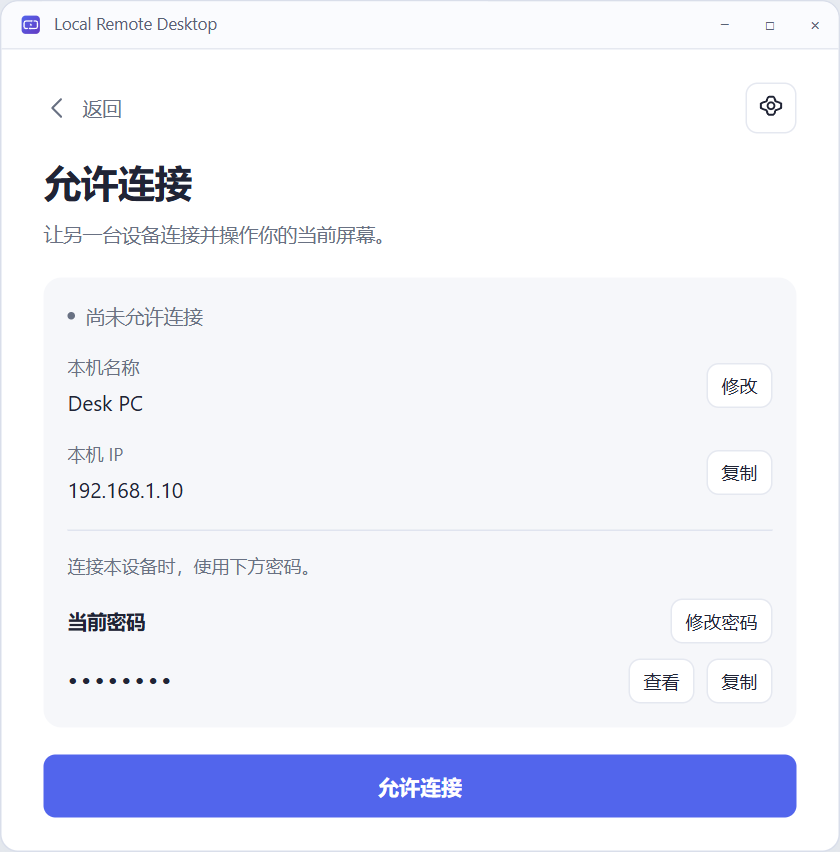
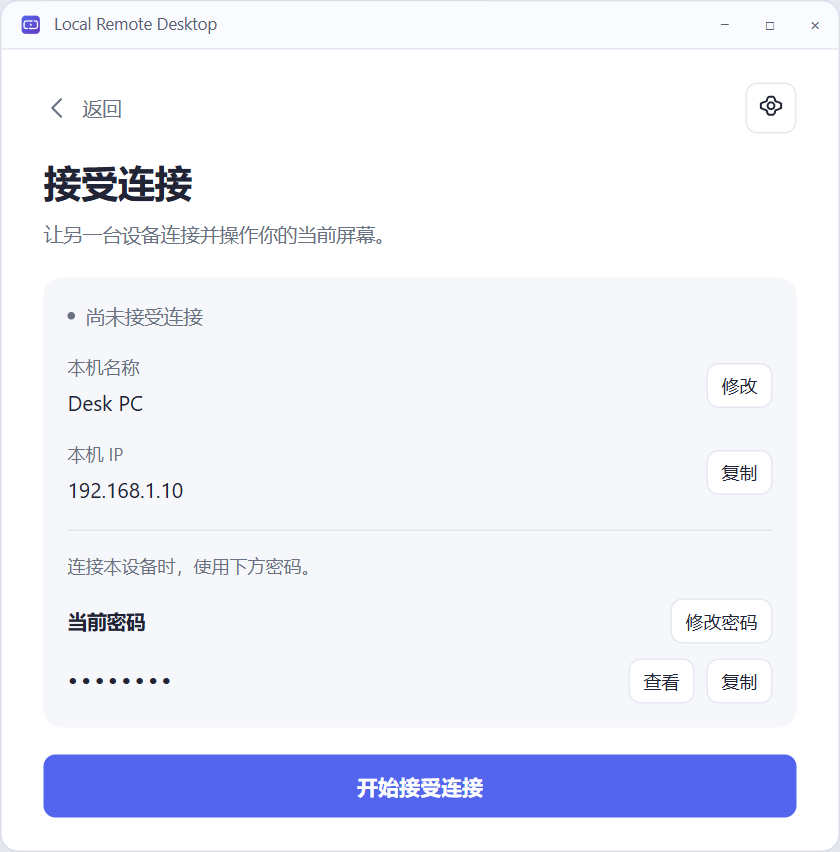
design: clarify connection roles with directional device illustrations

Changed region(s): [[0.031, 0.1831, 0.1548, 0.2441], [0.4024, 0.9155, 0.5881, 0.946], [0.1548, 0.3357, 0.1857, 0.3967]]

diff --git a/design/entry-review/prototype.js b/design/entry-review/prototype.js
@@ -1,11 +1,11 @@
 "use strict";
 const $=id=>document.getElementById(id);
 const copy={
-en:{subtitle:"Entry flow · Design draft",platform:"Platform",language:"Language",home:"Home",connect:"Connect to a device",share:"Allow connections",settings:"Settings",back:"Back",question:"How would you like to use it?",connectHint:"Choose a device to connect to and control.",shareHint:"Let another device connect to and control your current screen.",add:"Add target",devices:"Devices",refresh:"Refresh devices",remembered:"Remembered",first:"First connection",online:"Available",offline:"Offline",emptyTitle:"No devices or connection history",emptyHint:"Allow connections on the other device, or use Add target to enter its IP.",off:"Not accepting connections",on:"Waiting for a connection",name:"This device’s name",changeName:"Change",localIp:"This device’s IP",password:"Current password",changePassword:"Change password",passwordHint:"Use the password below to connect to this device.",show:"Show",hide:"Hide",copy:"Copy",start:"Allow connections",stop:"Stop accepting connections",targetIp:"Target IP",targetPassword:"Pairing password",remember:"Remember password",cancel:"Cancel",save:"Save",generate:"Generate",newPassword:"New password",passwordHelp:"8 characters, no spaces.",saveHelp:"Saving stops accepting connections and disconnects the current device.",invalidPassword:"Use exactly 8 characters without spaces.",invalidIp:"Enter a valid private IPv4 address.",pairError:"The pairing password did not match.",defaultState:"Default",noDevices:"No devices",permissions:"Permissions needed",permissionHint:"Allow screen recording and input control before accepting connections.",permissionAction:"Review permissions",note:"Design preview only. Devices and passwords are fictional; no connections, clipboard access, saved credentials or system changes.",spec:"Design notes",previewCopy:"Preview: copied.",previewConnect:"Preview: connection completed. The native app would now show the remote desktop.",previewRefresh:"Preview: device list refreshed.",previewPermission:"Preview: the native app would open macOS permission settings.",reconnect:"Reconnect automatically",quality:"Default picture quality",standard:"Standard",clipboard:"Clipboard",text:"Sync text",files:"Sync files",connection:"Connection",general:"General",nameTitle:"Change this device’s name",systemName:"Use system name",close:"Close",modalConnect:"Connect to device",conflictTitle:"Stop accepting connections?",conflictHint:"This ends any current connection to this device.",stopAndConnect:"Stop & connect",about:"About"},
-zh:{subtitle:"入口与操作流程 · 设计草图",platform:"平台",language:"语言",home:"首页",connect:"连接设备",share:"允许连接",settings:"设置",back:"返回",question:"你想如何使用？",connectHint:"选择你要连接并操作的设备。",shareHint:"让另一台设备连接并操作你的当前屏幕。",add:"添加目标",devices:"设备",refresh:"刷新设备",remembered:"已记住",first:"首次连接",online:"可连接",offline:"离线",emptyTitle:"暂无设备或连接记录",emptyHint:"请让对方设备允许连接，或通过“添加目标”输入目标 IP。",off:"尚未允许连接",on:"等待另一台设备连接",name:"本机名称",changeName:"修改",localIp:"本机 IP",password:"当前密码",changePassword:"修改密码",passwordHint:"连接本设备时，使用下方密码。",show:"查看",hide:"隐藏",copy:"复制",start:"允许连接",stop:"停止接收连接",targetIp:"目标 IP",targetPassword:"配对密码",remember:"记住密码",cancel:"取消",save:"保存",generate:"自动生成",newPassword:"新密码",passwordHelp:"8 位，不含空格。",saveHelp:"保存后将停止接收连接，并断开当前连接。",invalidPassword:"请输入 8 位密码，不含空格。",invalidIp:"请输入有效的私有 IPv4 地址。",pairError:"配对密码不正确。",defaultState:"默认",noDevices:"空列表",permissions:"待授权",permissionHint:"允许连接前，需要授权屏幕录制和辅助功能。",permissionAction:"检查权限",note:"仅为设计预览。设备和密码均为虚构示例，不实际连接、不操作剪贴板、不保存凭据、不修改系统。",spec:"设计说明",previewCopy:"预览：已模拟复制。",previewConnect:"预览：已模拟连接成功，实际客户端将进入远程桌面。",previewRefresh:"预览：已模拟刷新设备列表。",previewPermission:"预览：实际客户端将打开 macOS 权限设置。",reconnect:"自动重连",quality:"默认画质",standard:"标准",clipboard:"剪贴板",text:"同步文字",files:"同步文件",connection:"连接设置",general:"通用",nameTitle:"修改本机名称",systemName:"使用系统名称",close:"关闭",modalConnect:"连接设备",conflictTitle:"停止接收连接？",conflictHint:"这将断开其他设备对本设备的当前连接。",stopAndConnect:"停止接收并连接",about:"关于"}
+en:{subtitle:"Entry flow · Design draft",platform:"Platform",language:"Language",home:"Home",connect:"Start a connection",share:"Accept connections",settings:"Settings",back:"Back",question:"How would you like to use it?",connectHint:"Choose a device to connect to and control.",shareHint:"Let another device connect to and control your current screen.",add:"Add target",devices:"Devices",refresh:"Refresh devices",remembered:"Remembered",first:"First connection",online:"Available",offline:"Offline",emptyTitle:"No devices or connection history",emptyHint:"Start accepting connections on the other device, or use Add target to enter its IP.",off:"Not accepting connections",on:"Waiting for a connection",name:"This device’s name",changeName:"Change",localIp:"This device’s IP",password:"Current password",changePassword:"Change password",passwordHint:"Use the password below to connect to this device.",show:"Show",hide:"Hide",copy:"Copy",start:"Start accepting connections",stop:"Stop accepting connections",targetIp:"Target IP",targetPassword:"Pairing password",remember:"Remember password",cancel:"Cancel",save:"Save",generate:"Generate",newPassword:"New password",passwordHelp:"8 characters, no spaces.",saveHelp:"Saving stops accepting connections and disconnects the current device.",invalidPassword:"Use exactly 8 characters without spaces.",invalidIp:"Enter a valid private IPv4 address.",pairError:"The pairing password did not match.",defaultState:"Default",noDevices:"No devices",permissions:"Permissions needed",permissionHint:"Allow screen recording and input control before accepting connections.",permissionAction:"Review permissions",note:"Design preview only. Devices and passwords are fictional; no connections, clipboard access, saved credentials or system changes.",spec:"Design notes",previewCopy:"Preview: copied.",previewConnect:"Preview: connection completed. The native app would now show the remote desktop.",previewRefresh:"Preview: device list refreshed.",previewPermission:"Preview: the native app would open macOS permission settings.",reconnect:"Reconnect automatically",quality:"Default picture quality",standard:"Standard",clipboard:"Clipboard",text:"Sync text",files:"Sync files",connection:"Connection",general:"General",nameTitle:"Change this device’s name",systemName:"Use system name",close:"Close",modalConnect:"Connect to device",conflictTitle:"Stop accepting connections?",conflictHint:"This ends any current connection to this device.",stopAndConnect:"Stop & connect",about:"About"},
+zh:{subtitle:"入口与操作流程 · 设计草图",platform:"平台",language:"语言",home:"首页",connect:"发起连接",share:"接受连接",settings:"设置",back:"返回",question:"你想如何使用？",connectHint:"选择你要连接并操作的设备。",shareHint:"让另一台设备连接并操作你的当前屏幕。",add:"添加目标",devices:"设备",refresh:"刷新设备",remembered:"已记住",first:"首次连接",online:"可连接",offline:"离线",emptyTitle:"暂无设备或连接记录",emptyHint:"请让对方设备开始接受连接，或通过“添加目标”输入目标 IP。",off:"尚未接受连接",on:"等待连接",name:"本机名称",changeName:"修改",localIp:"本机 IP",password:"当前密码",changePassword:"修改密码",passwordHint:"连接本设备时，使用下方密码。",show:"查看",hide:"隐藏",copy:"复制",start:"开始接受连接",stop:"停止接受连接",targetIp:"目标 IP",targetPassword:"配对密码",remember:"记住密码",cancel:"取消",save:"保存",generate:"自动生成",newPassword:"新密码",passwordHelp:"8 位，不含空格。",saveHelp:"保存后将停止接受连接，并断开当前连接。",invalidPassword:"请输入 8 位密码，不含空格。",invalidIp:"请输入有效的私有 IPv4 地址。",pairError:"配对密码不正确。",defaultState:"默认",noDevices:"空列表",permissions:"待授权",permissionHint:"接受连接前，需要授权屏幕录制和辅助功能。",permissionAction:"检查权限",note:"仅为设计预览。设备和密码均为虚构示例，不实际连接、不操作剪贴板、不保存凭据、不修改系统。",spec:"设计说明",previewCopy:"预览：已模拟复制。",previewConnect:"预览：已模拟连接成功，实际客户端将进入远程桌面。",previewRefresh:"预览：已模拟刷新设备列表。",previewPermission:"预览：实际客户端将打开 macOS 权限设置。",reconnect:"自动重连",quality:"默认画质",standard:"标准",clipboard:"剪贴板",text:"同步文字",files:"同步文件",connection:"连接设置",general:"通用",nameTitle:"修改本机名称",systemName:"使用系统名称",close:"关闭",modalConnect:"连接设备",conflictTitle:"停止接受连接？",conflictHint:"这将断开其他设备对本设备的当前连接。",stopAndConnect:"停止接受并连接",about:"关于"}
 };
-const paths={gear:'<path d="m9 3 1-1h4l1 1 1 3 3 1 2 1v4l-2 1-3 1-1 3-1 1h-4l-1-1-1-3-3-1-2-1V8l2-1 3-1Z"/><circle cx="12" cy="10" r="3"/>',back:'<path d="m14 5-7 7 7 7"/>',monitor:'<rect x="3" y="4" width="18" height="13" rx="2"/><path d="M9 21h6m-3-4v4"/>',connect:'<path d="M34 16H20a10 10 0 0 0-10 10v12a10 10 0 0 0 10 10h5m6-36 5 4-5 4M30 48h14a10 10 0 0 0 10-10V26a10 10 0 0 0-10-10h-5m-6 28-5 4 5 4"/><path d="m25 25 15 10-6 .5 3.5 7-3.5 1.5-3.5-7-4 4Z" fill="currentColor" stroke="none"/>',share:'<path d="M34 16H20a10 10 0 0 0-10 10v12a10 10 0 0 0 10 10h5m6-36 5 4-5 4M30 48h14a10 10 0 0 0 10-10V26a10 10 0 0 0-10-10h-5m-6 28-5 4 5 4"/><path d="M23 32h16m-5-5 5 5-5 5"/>',refresh:'<path d="M20 7v5h-5M4 17v-5h5M6 6a8 8 0 0 1 13 3M18 18A8 8 0 0 1 5 15"/>',close:'<path d="m6 6 12 12M18 6 6 18"/>',chevron:'<path d="m9 5 7 7-7 7"/>'};
-const icon=name=>`<svg class="icon" viewBox="${['connect','share'].includes(name)?'0 0 64 64':'0 0 24 24'}" aria-hidden="true">${paths[name]}</svg>`;
+const paths={gear:'<path d="m9 3 1-1h4l1 1 1 3 3 1 2 1v4l-2 1-3 1-1 3-1 1h-4l-1-1-1-3-3-1-2-1V8l2-1 3-1Z"/><circle cx="12" cy="10" r="3"/>',back:'<path d="m14 5-7 7 7 7"/>',monitor:'<rect x="3" y="4" width="18" height="13" rx="2"/><path d="M9 21h6m-3-4v4"/>',refresh:'<path d="M20 7v5h-5M4 17v-5h5M6 6a8 8 0 0 1 13 3M18 18A8 8 0 0 1 5 15"/>',close:'<path d="m6 6 12 12M18 6 6 18"/>',chevron:'<path d="m9 5 7 7-7 7"/>'};
+const icon=name=>`<svg class="icon" viewBox="0 0 24 24" aria-hidden="true">${paths[name]}</svg>`;
 const esc=s=>String(s).replace(/[&<>"']/g,c=>({'&':'&amp;','<':'&lt;','>':'&gt;','"':'&quot;',"'":'&#39;'}[c]));
 let lang=new URLSearchParams(location.search).get('lang')==='zh'?'zh':'en',platform='windows',page='home',empty=false,permissionMissing=false,sharing=false,revealed=false,password='Blue482X',modal=null,returnFocus=null;
 const names={windows:'Desk PC',mac:'My MacBook'}; let localNames={...names};
@@ -13,7 +13,7 @@ const t=key=>copy[lang][key];
 function chrome(){return platform==='mac'?`<span class="traffic" aria-hidden="true"><i></i><i></i><i></i></span><span>Local Remote Desktop</span>`:`<img src="../../assets/brand/icon.svg" alt=""><span>Local Remote Desktop</span><span class="window-buttons" aria-hidden="true"><span>−</span><span>□</span><span>×</span></span>`;}
 const settingsButton=()=>`<button class="icon-button" data-action="settings" aria-label="${t('settings')}">${icon('gear')}</button>`;
 const back=()=>`<button class="back" data-action="home">${icon('back')}${t('back')}</button>`;
-function home(){return `<div class="topline"><span></span>${settingsButton()}</div><h2 class="welcome-heading">${t('question')}</h2><div class="choices"><button class="choice" data-action="connect"><span class="choice-icon">${icon('connect')}</span><strong>${t('connect')}</strong></button><button class="choice" data-action="share"><span class="choice-icon">${icon('share')}</span><strong>${t('share')}</strong></button></div>`;}
+function home(){return `<div class="topline"><span></span>${settingsButton()}</div><h2 class="welcome-heading">${t('question')}</h2><div class="choices"><button class="choice" data-action="connect"><img class="role-illustration" src="initiate-connection.svg" alt="" draggable="false"><strong>${t('connect')}</strong></button><button class="choice" data-action="share"><img class="role-illustration" src="accept-connection.svg" alt="" draggable="false"><strong>${t('share')}</strong></button></div>`;}
 function device(name,os,status,address){return `<button class="device" data-action="device" data-address="${address}" data-name="${name}" data-os="${os}" ${status==='offline'?'disabled':''}><span class="device-icon">${icon('monitor')}</span><span class="device-info"><strong>${name}</strong><small>${os} · ${t(status==='first'?'first':'remembered')}</small></span><span class="device-status ${status==='offline'?'offline':''}"><i class="dot"></i>${t(status==='offline'?'offline':'online')}</span></button>`;}
 function connect(){return `<div class="topline">${back()}${settingsButton()}</div><h2 class="heading">${t('connect')}</h2><p class="description">${t('connectHint')}</p><div class="section-title"><h3>${t('devices')}</h3><div style="display:flex;gap:5px"><button class="icon-button" data-action="refresh" aria-label="${t('refresh')}">${icon('refresh')}</button><button data-action="add">＋ ${t('add')}</button></div></div>${empty?`<div class="empty">${icon('monitor')}<strong>${t('emptyTitle')}</strong><p>${t('emptyHint')}</p></div>`:`<div class="device-list">${device('Studio Mac','macOS','remembered','192.168.1.24')}${device('Office PC','Windows','first','192.168.1.70')}${device('Travel Mac','macOS','offline','192.168.1.35')}</div>`}`;}
 function share(){return `<div class="topline">${back()}${settingsButton()}</div><h2 class="heading">${t('share')}</h2><p class="description">${t('shareHint')}</p><div class="sharing"><div class="status ${sharing?'active':''}"><i class="dot"></i>${t(sharing?'on':'off')}</div><div class="form-row"><div class="field-info"><span class="field-label">${t('name')}</span><span class="field-value">${esc(localNames[platform])}</span></div><button class="small" data-action="name">${t('changeName')}</button></div><div class="form-row"><div class="field-info"><span class="field-label">${t('localIp')}</span><span class="field-value">192.168.1.${platform==='mac'?'12':'10'}</span></div><button class="small" data-action="copy">${t('copy')}</button></div><div class="rule"></div><p class="password-hint">${t('passwordHint')}</p><div class="password-heading"><strong>${t('password')}</strong><button class="small" data-action="password">${t('changePassword')}</button></div><div class="password-row"><span class="password">${revealed?esc(password):'••••••••'}</span><button class="small" data-action="reveal">${t(revealed?'hide':'show')}</button><button class="small" data-action="copy">${t('copy')}</button></div></div>${permissionMissing&&platform==='mac'?`<div class="permission"><p>${t('permissionHint')}</p><button data-action="permission">${t('permissionAction')}</button></div>`:''}<div class="footer-action"><button class="${sharing?'stop':'primary'}" data-action="sharing">${t(sharing?'stop':'start')}</button></div>`;}

diff --git a/design/entry-review/styles.css b/design/entry-review/styles.css
@@ -1,2 +1,4 @@
 *{box-sizing:border-box} :root{--accent:#5265ec;--ink:#202435;--muted:#697183;--line:#e5e8f0;--surface:#f6f7fa;--tint:#eef0ff;--success:#23745f;--danger:#ad363e} body{margin:0;background:#e9ecf2;color:var(--ink);font:14px/1.5 "Segoe UI Variable","Segoe UI",-apple-system,BlinkMacSystemFont,"PingFang SC","Microsoft YaHei",sans-serif}button,input,select{font:inherit}button{cursor:pointer}button:disabled{opacity:.5;cursor:default}button:focus-visible,select:focus-visible,input:focus-visible{outline:3px solid #a2acf8;outline-offset:3px}button{border:1px solid var(--line);border-radius:8px;padding:8px 12px;background:#fff;color:var(--ink)}button:hover:not(:disabled){border-color:#a2acf8;background:#fafaff}.review{max-width:1020px;margin:0 auto;padding:28px 24px 16px}.review-header{display:flex;justify-content:space-between;align-items:center;gap:20px;margin-bottom:20px}.review-header h1{font-size:21px;font-weight:600;margin:0}.review-header p{margin:3px 0 0;color:var(--muted);font-size:13px}.review-controls{display:flex;gap:14px}.review-controls label{display:flex;gap:8px;align-items:center;font-size:12px;color:var(--muted)}select{background:white;color:var(--ink);border:1px solid var(--line);border-radius:7px;padding:5px 8px}#pages{display:flex;gap:8px;padding-bottom:16px;border-bottom:1px solid #d5dbe6}#pages button{background:transparent;border-color:transparent}#pages button[aria-current=page]{background:#fff;border-color:var(--line);color:var(--accent)}.stage{padding:26px 0;display:flex;justify-content:center}.app{position:relative;width:560px;height:568px;max-width:100%;overflow:hidden;border:1px solid #d9deea;border-radius:12px;background:#fff;box-shadow:0 12px 36px #28365512;display:flex;flex-direction:column}.chrome{display:flex;align-items:center;gap:8px;height:32px;flex:none;padding:0 12px;background:#fafbfe;border-bottom:1px solid var(--line);font-size:11px;color:#586174;user-select:none}.chrome img{width:15px;height:15px}.chrome .window-buttons{margin-left:auto;display:flex;gap:23px;font-size:11px}.chrome .traffic{display:flex;gap:7px;margin-right:10px}.traffic i{width:10px;height:10px;border-radius:50%;background:#e3e5e9;border:1px solid #cdd1d9}.traffic i:first-child{background:#ff6a61;border-color:#e45b51}.traffic i:nth-child(2){background:#ffc24d;border-color:#deb044}.traffic i:nth-child(3){background:#65c86d;border-color:#50ae5b}.mac{font-family:-apple-system,BlinkMacSystemFont,"PingFang SC","Segoe UI",sans-serif}.mac .chrome{justify-content:center;position:relative}.mac .traffic{position:absolute;left:12px}.content{padding:22px 28px;flex:1;min-height:0;display:flex;flex-direction:column;overflow:auto}.topline{display:flex;justify-content:space-between;align-items:center;gap:12px;margin-bottom:16px}.back{display:flex;align-items:center;gap:6px;border:none;padding:3px 0;color:var(--muted);background:transparent;font-size:13px}.back:hover:not(:disabled){background:transparent;color:var(--accent)}.icon-button{width:34px;height:34px;display:flex;align-items:center;justify-content:center;padding:7px}.icon{display:block;width:20px;height:20px;fill:none;stroke:currentColor;stroke-width:1.7;stroke-linecap:round;stroke-linejoin:round}.heading{margin:0;font-size:25px;line-height:1.3;font-weight:600;letter-spacing:-.4px}.description{margin:8px 0 20px;color:var(--muted);font-size:13px}.welcome-heading{text-align:center;margin:0 0 32px;font-size:25px;font-weight:600;letter-spacing:-.4px}.welcome-subtitle{text-align:center;color:var(--muted);margin:10px 0 28px}.choices{display:grid;grid-template-columns:1fr 1fr;gap:16px}.choice{display:flex;flex-direction:column;align-items:center;justify-content:center;text-align:center;min-height:208px;padding:28px 20px;border:1px solid #dce1ee;border-radius:12px;background:#fff}.choice:hover:not(:disabled){border-color:var(--accent);background:#f8f9ff}.choice .choice-icon{color:var(--accent);margin-bottom:22px}.choice .icon{width:64px;height:64px;stroke-width:2.4}.choice strong{font-size:22px;font-weight:600;line-height:1.25}.choice span:last-child{font-size:13px;color:var(--muted);margin-top:9px}.welcome-bottom{margin-top:auto;display:flex;justify-content:center;padding:25px 0 3px}.subtle{background:transparent;border:none;color:var(--muted)}.section-title{display:flex;justify-content:space-between;align-items:center;gap:12px;margin:0 0 8px}.section-title h3{font-size:13px;font-weight:600;margin:0}.section-title .icon-button{border-color:transparent;color:var(--muted)}.device-list{border-top:1px solid var(--line)}.device{display:flex;align-items:center;width:100%;padding:18px 0;gap:14px;border:0;border-bottom:1px solid var(--line);border-radius:0;background:white;text-align:left}.device:hover:not(:disabled){background:#fafbff;border-color:var(--line)}.device-icon{color:var(--muted);background:var(--surface);border-radius:8px;padding:10px}.device-icon .icon{width:24px;height:24px}.device-info{flex:1}.device-info strong{font-weight:600;display:block}.device-info small{font-size:12px;display:block;margin-top:3px;color:var(--muted)}.device-status{font-size:12px;color:var(--success);display:flex;gap:6px;align-items:center;white-space:nowrap}.device-status.offline{color:var(--muted)}.dot{width:5px;height:5px;display:inline-block;border-radius:50%;background:currentColor}.empty{background:var(--surface);border-radius:12px;min-height:235px;display:flex;flex-direction:column;justify-content:center;align-items:center;text-align:center;padding:28px 22px;margin-top:8px;color:var(--muted)}.empty .icon{width:34px;height:34px;margin-bottom:17px;stroke-width:1.2}.empty strong{font-weight:600;color:var(--ink)}.empty p{font-size:13px;margin:8px 0 0;max-width:290px}.page-note{font-size:12px;color:var(--muted);margin-top:18px}.primary{background:var(--accent);color:white;border-color:var(--accent);font-weight:600}.primary:hover:not(:disabled){background:#4255da;border-color:#4255da}.sharing{border-radius:12px;background:var(--surface);padding:16px}.status{color:var(--muted);font-size:13px;display:flex;gap:7px;align-items:center;margin-bottom:14px}.status.active{color:var(--success)}.form-row{display:flex;justify-content:space-between;align-items:center;gap:14px;margin-top:14px}.field-info{min-width:0}.field-label{font-size:12px;color:var(--muted);display:block;margin-bottom:5px}.field-value{font-size:14px;word-break:break-word}.small{font-size:12px;padding:5px 9px;white-space:nowrap}.rule{height:1px;background:#e0e4ef;margin:16px 0 14px}.password-hint{color:var(--muted);font-size:12px;margin:0 0 13px}.password-row{display:flex;gap:8px;align-items:center}.password-row .password{flex:1;font-size:17px;letter-spacing:2px}.password-heading{display:flex;justify-content:space-between;align-items:center;margin-bottom:10px}.password-heading strong{font-size:13px;font-weight:600}.footer-action{padding-top:16px;margin-top:auto;position:sticky;bottom:-22px;background:#fff;flex-shrink:0}.footer-action button{width:100%;height:42px}.footer-action .stop{background:white;color:var(--danger);border-color:#e7c5c9}.permission{margin-top:12px;padding:12px 14px;border:1px solid #ead8b5;background:#fffbf3;border-radius:9px;font-size:12px;color:#795515}.permission p{margin:0 0 8px}.permission button{border-color:#d8c9a8;font-size:12px;padding:5px 9px}.scenarios{display:flex;justify-content:center;flex-wrap:wrap;gap:8px;min-height:34px}.scenarios button{padding:5px 10px;font-size:12px;background:transparent}.scenarios button.selected{background:#fff;border-color:#a2acf8;color:var(--accent)}.review-footer{color:var(--muted);font-size:12px;margin-top:17px;text-align:center}.review-footer p{margin:5px 0}.review-footer a{color:#536087}.review-footer #feedback{min-height:18px;color:var(--accent)}#modal-layer:empty{display:none}#modal-layer{position:absolute;inset:32px 0 0;background:#20243530;display:flex;align-items:center;justify-content:center;padding:22px;z-index:3}.dialog{background:#fff;box-shadow:0 20px 50px #20243522;border:1px solid var(--line);border-radius:12px;padding:24px;width:390px;max-width:100%;max-height:100%;overflow:auto}.dialog-header{display:flex;justify-content:space-between;align-items:center;gap:10px;margin-bottom:18px}.dialog h2{margin:0;font-size:21px;font-weight:600}.dialog label.block{display:block;font-size:12px;color:var(--muted);margin:14px 0 5px}.dialog input[type=text],.dialog input[type=password]{width:100%;padding:10px 11px;background:#fff;border:1px solid #ccd2df;border-radius:7px;color:var(--ink);font-size:14px}.dialog .remember{display:flex;gap:7px;align-items:center;margin-top:14px;font-size:12px;color:var(--muted)}input[type=checkbox]{accent-color:var(--accent)}.dialog-actions{display:flex;justify-content:flex-end;gap:9px;margin-top:23px}.dialog .primary{min-width:96px}.generate-row{display:flex;align-items:center;gap:9px}.generate-row input{min-width:0;flex:1}.generate{border:1px solid #a2acf8;color:var(--accent);font-weight:600;white-space:nowrap;padding:10px 12px}.help{font-size:12px;color:var(--muted);margin:9px 0}.error{font-size:12px;color:var(--danger);margin:10px 0 0;min-height:18px}.settings-list{display:grid;gap:16px}.settings-group{padding-bottom:14px;border-bottom:1px solid var(--line)}.settings-group h3{font-size:13px;font-weight:600;margin:0 0 10px}.settings-group label{font-size:12px}.settings-list select{width:100%}.settings-group p{font-size:12px;color:var(--muted);margin:3px 0}.settings-group .remember{margin-top:8px}@media(max-width:640px){.review{padding:18px 12px}.review-header{align-items:flex-start;flex-direction:column;gap:12px}.review-controls{flex-wrap:wrap}.stage{padding-top:18px}.content{padding:20px}.choices{gap:10px}.choice{padding:20px 14px}.choice strong{font-size:20px}.choice span:last-child{font-size:12px}.app{height:568px}.sharing{padding:17px}.device{gap:10px}.device-status{font-size:11px}.topline{margin-bottom:20px}}@media(prefers-reduced-motion:reduce){*{scroll-behavior:auto!important}}
 .home-page{justify-content:center}.home-page .topline{position:absolute;top:54px;right:28px;margin:0}.choice strong{max-width:100%;font-size:21px;line-height:1.35}.choice:focus-visible{outline-offset:4px}
+
+.role-illustration{width:168px;height:64px;display:block;margin:0 0 18px;pointer-events:none}.choice{padding:22px 14px;min-height:208px}.choice strong{font-size:21px;line-height:1.35}.choice:hover:not(:disabled){background:#f8f9ff}.choice:active:not(:disabled){background:#eef1ff;border-color:#5265ec}.choice:focus-visible{outline:3px solid #8e9bef;outline-offset:4px}@media(max-width:480px){.role-illustration{width:140px;height:53.333px;margin-bottom:16px}.choice{padding:18px 8px;min-height:196px}.choice strong{font-size:18px}}

diff --git a/docs/entry-design.md b/docs/entry-design.md
@@ -2,15 +2,15 @@
 
 [简体中文](zh-CN/entry-design.md) · [Previous UI proposal](design.md)
 
-Recorded 2026-10-12. The owner agreed to explore two initial entrances. These
+Recorded 2026-10-12. The owner agreed to explore two initial entrances and confirmed their names. These
 three screens are **a design draft for review**, not approved native changes.
 Open the [interactive draft](../design/entry-review/index.html) or see the
 [three-screen overview](../design/entry-review/overview-zh.png).
 
 ## Structure
 
-First launch presents two equally clear choices: **Connect to a device** (operate another
-device) and **Allow connections** (Chinese: **允许连接**, let another device operate
+First launch presents two equally clear choices: **Start a connection** (operate another
+device) and **Accept connections** (Chinese: **接受连接**, let another device operate
 this one). Choosing a role opens its task screen; it never starts a connection
 or enables sharing. One application still provides both roles. No permanent
 sidebar or credential form on the first screen.
@@ -18,8 +18,8 @@ sidebar or credential form on the first screen.
 | Screen | Content and primary action |
 |---|---|
 | Home | Two large role buttons; a secondary Settings entry. |
-| Connect to a device | One device list, refresh and one Add target button. Credentials appear only in the target/pairing dialog. Empty state explains what to do. |
-| Allow connections | Vertically stacked local name, IP and masked password. Allow connections is the page's bottom action after those details. |
+| Start a connection | One device list, refresh and one Add target button. Credentials appear only in the target/pairing dialog. Empty state explains what to do. |
+| Accept connections | Vertically stacked local name, IP and masked password. Accept connections is the page's bottom action after those details. |
 
 Back returns to the role chooser without discarding credentials, saved history
 or an active sharing session. It is navigation, not Disconnect or Stop. An
@@ -35,28 +35,31 @@ on reload and stores nothing.
 
 ## Vocabulary refinement
 
-The owner asked to avoid mixing a passive “被连接” entrance with “sharing”
-actions. Proposed visible terms now form one connection vocabulary:
+The owner confirmed 发起连接 / 接受连接 on 2026-10-12 after reviewing the
+passive/permission wording. Visible terms now form one connection vocabulary:
 
 | Context | English | Chinese |
 |---|---|---|
-| Operate another device | Connect to a device | 连接设备 |
-| Receive access to this device | Allow connections | 允许连接 |
-| Open the local listener | Allow connections | 允许连接 |
-| Stop the local listener/session | Stop accepting connections | 停止接收连接 |
+| Operate another device | Start a connection | 发起连接 |
+| Receive access to this device | Accept connections | 接受连接 |
+| Open the local listener | Start accepting connections | 开始接受连接 |
+| Stop the local listener/session | Stop accepting connections | 停止接受连接 |
 | Establish/end a remote session | Connect / Disconnect | 连接 / 断开 |
 
 This does not remove pairing or change protocol authorization. Internally the
 code can retain the sharing role name; users do not need that extra term. File
 clipboard settings say Sync files / 同步文件. Statuses identify not accepting,
-waiting and connected states in their page context. This vocabulary is part of
-the draft and still subject to review.
+waiting and connected states in their page context. The entrance names are agreed;
+the full visual proposal still needs review.
 
 The homepage keeps only the main question: no explanatory subtitle or role
-subtitles. Each role's icon and label are centered as one group. Icons share the
-approved logo's rounded screen and opposing-arrow geometry; the first contains
-a pointer, the second an incoming arrow. They are supporting symbols, not two
-new application logos. Native title-bar icons retain OS conventions.
+subtitles. Each role's icon and label are centered as one group. Both
+illustrations keep the larger local screen on the left in brand blue
+and the smaller remote screen on the right in neutral grey. One arrow reverses
+direction to show connection initiation, not video-data direction. The pointer
+sits on the operated screen: remote for Start, local for Accept. Rounded screens
+and palette echo the approved brand; these are functional illustrations, not new
+application logos. Native title-bar icons retain OS conventions.
 
 ## Task details
 
@@ -74,7 +77,7 @@ an obvious Generate button; Cancel changes nothing. Save ends sharing and waits
 for explicit Start. Existing longer passwords remain valid until deliberately
 changed. Show/Copy and consent behavior keep the established implementation rules.
 
-Mac permission recovery appears on Allow connections when relevant, not on the
+Mac permission recovery appears on Accept connections when relevant, not on the
 first screen or connection-to-another-device form. Opening the screen does not
 request Keychain or TCC access. Permission grants remain system-controlled.
 Settings retains General, Connection, Clipboard and About; the small preview
@@ -117,6 +120,16 @@ Next implementation should expose non-secret source/build identity and compare
 built, installed and running executable paths before concluding an update worked.
 Keep stable bundle/Keychain identities and never reset permissions as a UI fix.
 No Mac SSH or native validation was performed for this draft.
+
+## Design responsibility
+
+Review the complete flow before asking for owner feedback: vocabulary, device
+identity, connection direction, operated-screen cues, action/confirmation states,
+English/Chinese lengths, visual centering, spacing, hover/pressed/focus feedback
+and a narrow viewport. Do not ask the owner to discover each alignment or state
+mistake separately. Role choice navigates; it never grants control or ends an
+active session. Owner review is for product/design decisions; native evidence
+must be recorded separately.
 
 ## Review and implementation
 

diff --git a/design/entry-review/README.md b/design/entry-review/README.md
@@ -3,7 +3,7 @@
 [简体中文](README.zh-CN.md) · [Design notes](../../docs/entry-design.md)
 
 **Draft for review. Native clients have not been changed for this proposal.**
-First launch chooses Connect to a device or Allow connections (允许连接); the next screen owns
+First launch chooses Start a connection or Accept connections (接受连接); the next screen owns
 its task. Open `index.html` offline, or serve the repository and open
 `design/entry-review/index.html`. The outside page/platform/language controls are
 review tools, not product navigation. The draft includes Windows/macOS chrome,
@@ -17,7 +17,7 @@ explicit confirmation; Cancel preserves sharing. The browser screenshots are
 mockups, not evidence of native runtime behavior.
 
 [Overview](overview-zh.png) · [Home](windows-home-zh.png) ·
-[Connect](windows-connect-zh.png) · [Allow connections](mac-share-zh.png) ·
+[Connect](windows-connect-zh.png) · [Accept connections](mac-share-zh.png) ·
 [Empty state](mac-connect-empty-zh.png) · [Add target](mac-add-target-zh.png)
 
 Headless browser review covered EN/ZH × Windows/macOS within the 560 × 568 draft

diff --git a/design/entry-review/README.zh-CN.md b/design/entry-review/README.zh-CN.md
@@ -2,7 +2,7 @@
 
 [English](README.md) · [设计说明](../../docs/zh-CN/entry-design.md)
 
-**待评审草图，本轮尚未修改原生客户端。** 首次打开先选“连接设备”或“允许连接”，再进入
+**待评审草图，本轮尚未修改原生客户端。** 首次打开先选“发起连接”或“接受连接”，再进入
 对应任务。可离线打开 `index.html`，或在本地服务中预览。应用外的平台、语言、页面
 选择按钮只用于评审，实际产品不需要这套导航。
 
@@ -12,7 +12,7 @@
 浏览器草图，不代表 Mac/Windows 原生运行通过。
 
 [三页总览](overview-zh.png) · [首页](windows-home-zh.png) ·
-[连接设备](windows-connect-zh.png) · [允许连接](mac-share-zh.png) ·
+[发起连接](windows-connect-zh.png) · [接受连接](mac-share-zh.png) ·
 [空列表](mac-connect-empty-zh.png) · [添加目标](mac-add-target-zh.png)
 
 后台浏览器检查覆盖中英文 × 两端窗口外观、560 × 568 默认尺寸、窄窗口不横向溢出、
